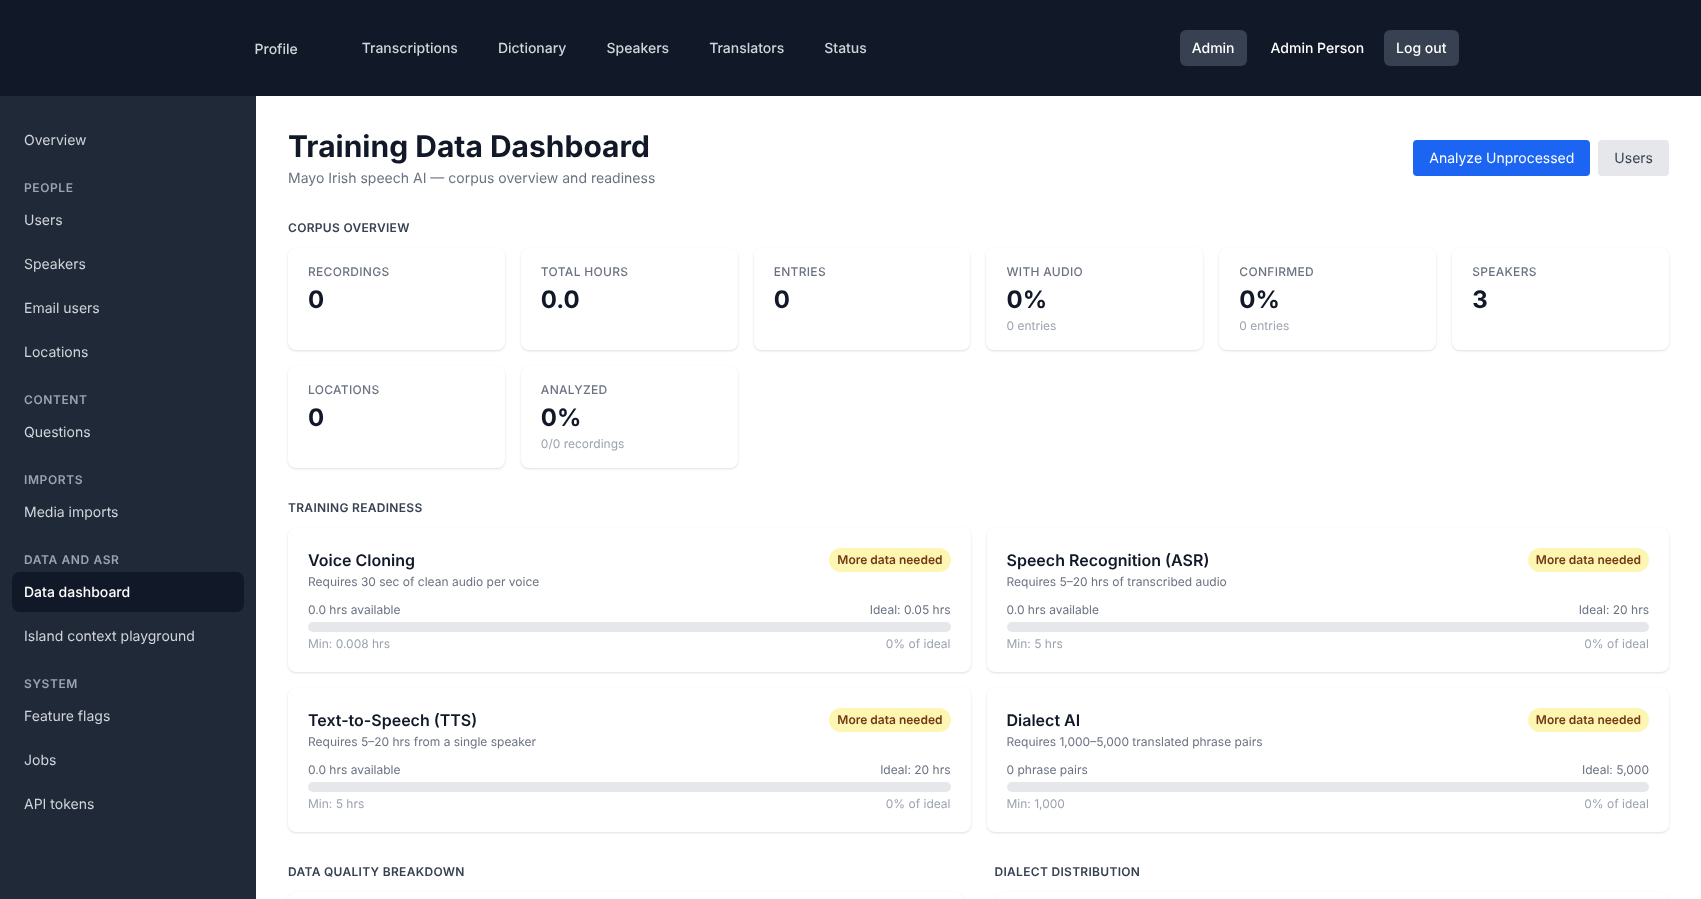
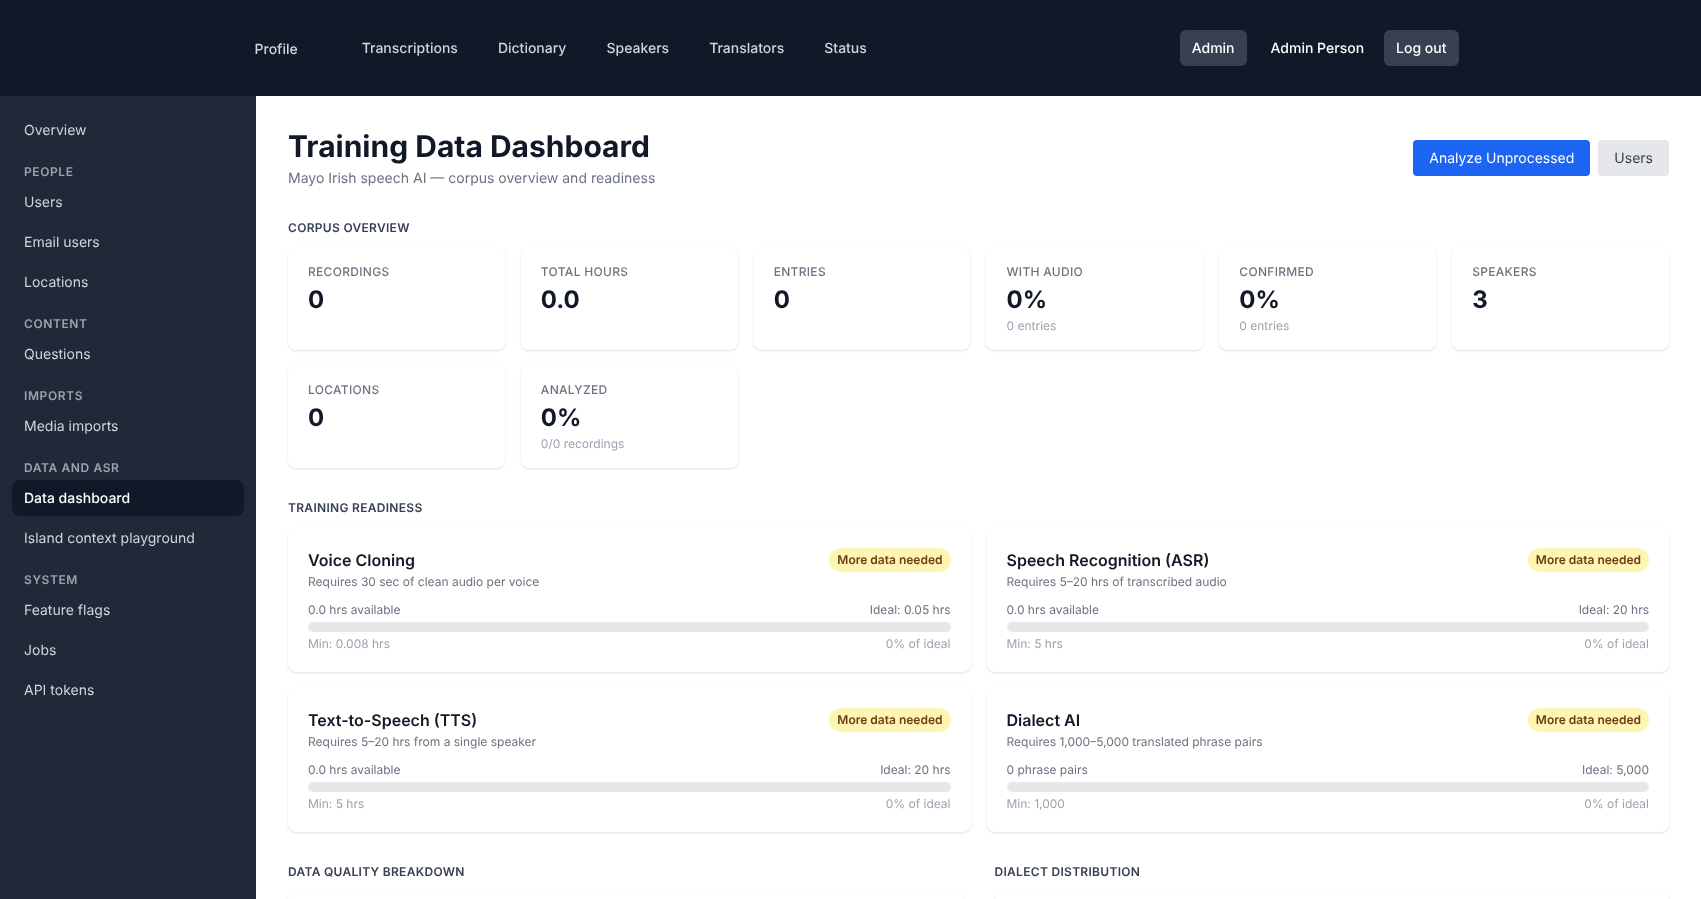
Admin sidebar: review fixes (#152)
- Drop Speakers (/users) from the admin menu: it is the public page, already
  in the top bar, and has no sidebar.
- /questions is the learner's question screen, not an admin page: no sidebar.
- Sidebar column is as tall as the page and its links stick within the
  window, so short pages no longer scroll by the top bar's height and every
  link fits at 1024x768.
- Phone menu links match the existing drawer links (16px, same indent); the
  drawer's admin section isn't rendered from tablet width up, so only one
  link is marked as the current page.
- Tests: phone menu has every link, flagged pages in the sidebar, question
  screen has no sidebar.

Claude-Session: https://claude.ai/code/session_017wWQS8zSjNGTqXqqy1kLXo

diff --git a/test/controllers/admin/dashboards_controller_test.rb b/test/controllers/admin/dashboards_controller_test.rb
@@ -2,7 +2,7 @@ require "test_helper"
 
 module Admin
   class DashboardsControllerTest < ActionDispatch::IntegrationTest
-    ALWAYS_LISTED = %w[/admin/users /users /admin_emails /admin/locations /admin/questions
+    ALWAYS_LISTED = %w[/admin/users /admin_emails /admin/locations /admin/questions
       /admin/media_imports /admin/data_dashboard /admin/island_context_playground
       /flipper /jobs /admin/api].freeze
 
@@ -34,10 +34,29 @@ module Admin
       assert_select "nav[aria-label=Admin] a[href=?]", admin_root_path
     end
 
-    test "there is no Tags link: /tags is a JSON endpoint, not a page" do
+    test "no admin link leaves the admin area: no Tags (a JSON endpoint) or public Speakers page" do
       sign_in_as(@admin)
       get admin_root_path
       assert_select "a[href=?]", "/tags", false
+      assert_select "nav[aria-label=Admin] a[href=?]", "/users", false
+      assert_select "[data-admin-menu] a[href=?]", "/users", false
+    end
+
+    test "flagged admin pages appear in the sidebar only when their flag is on" do
+      sign_in_as(@admin)
+      get admin_locations_path
+      assert_select "nav[aria-label=Admin] a[href=?]", "/admin/training_progress", false
+      Flipper.enable(:f142_training_progress)
+      get admin_locations_path
+      assert_select "nav[aria-label=Admin] a[href=?]", "/admin/training_progress"
+    end
+
+    test "the learner's question screen is not an admin page" do
+      sign_in_as(@admin)
+      get new_question_path
+      assert_response :success
+      assert_select "nav[aria-label=Admin]", false
+      assert_select "a[href=?][aria-current]", "/admin", false
     end
 
     test "the sidebar marks the current page, and pages under it" do
@@ -55,16 +74,16 @@ module Admin
     test "the top bar's Admin link is marked on admin pages only" do
       sign_in_as(@admin)
       get admin_questions_path
-      assert_select "a[href=?][aria-current=page]", "/admin", text: "Admin"
+      assert_select "a[href=?][aria-current=true]", "/admin", text: "Admin"
       get home_path
-      assert_select "a[href=?][aria-current=page]", "/admin", false
+      assert_select "a[href=?][aria-current]", "/admin", false
     end
 
     test "the phone menu lists the admin pages for admins, on any page" do
       sign_in_as(@admin)
       get home_path
-      assert_select "[data-admin-menu] a[href=?]", "/flipper"
-      assert_select "[data-admin-menu] a[href=?]", "/admin/users"
+      ALWAYS_LISTED.each { |path| assert_select "[data-admin-menu] a[href=?]", path, true, "missing #{path}" }
+      assert_select "[data-admin-menu] a[href=?]", admin_root_path
       assert_select "nav[aria-label=Admin]", false
     end
 

diff --git a/app/services/admin_navigation.rb b/app/services/admin_navigation.rb
@@ -26,7 +26,6 @@ class AdminNavigation
     {
       "People" => [
         item("Users", "Approve sign-ups, edit people and roles.", routes.admin_users_path),
-        item("Speakers", "Browse the speakers whose Irish is recorded.", routes.users_path),
         item("Email users", "Write to and email users.", routes.admin_emails_path),
         item("Locations", "Check and geocode where speakers are from.", routes.admin_locations_path)
       ],

diff --git a/app/helpers/admin_navigation_helper.rb b/app/helpers/admin_navigation_helper.rb
@@ -1,7 +1,7 @@
 # frozen_string_literal: true
 
 module AdminNavigationHelper
-  LINK_CLASS = "flex items-center min-h-12 md:min-h-10 px-3 rounded-lg text-sm"
+  LINK_CLASS = "flex items-center min-h-12 md:min-h-9 px-2 md:px-3 rounded-lg text-base md:text-sm"
   CURRENT_CLASS = "bg-gray-900 text-white font-medium"
   OTHER_CLASS = "text-gray-300 hover:bg-gray-700 hover:text-white"
 

diff --git a/app/controllers/application_controller.rb b/app/controllers/application_controller.rb
@@ -32,7 +32,7 @@ class ApplicationController < ActionController::Base
   end
 
   def admin_page?
-    controller_path.start_with?("admin/") || %w[admin_emails questions].include?(controller_path)
+    controller_path.start_with?("admin/") || controller_path == "admin_emails"
   end
 
   def root_redirect
